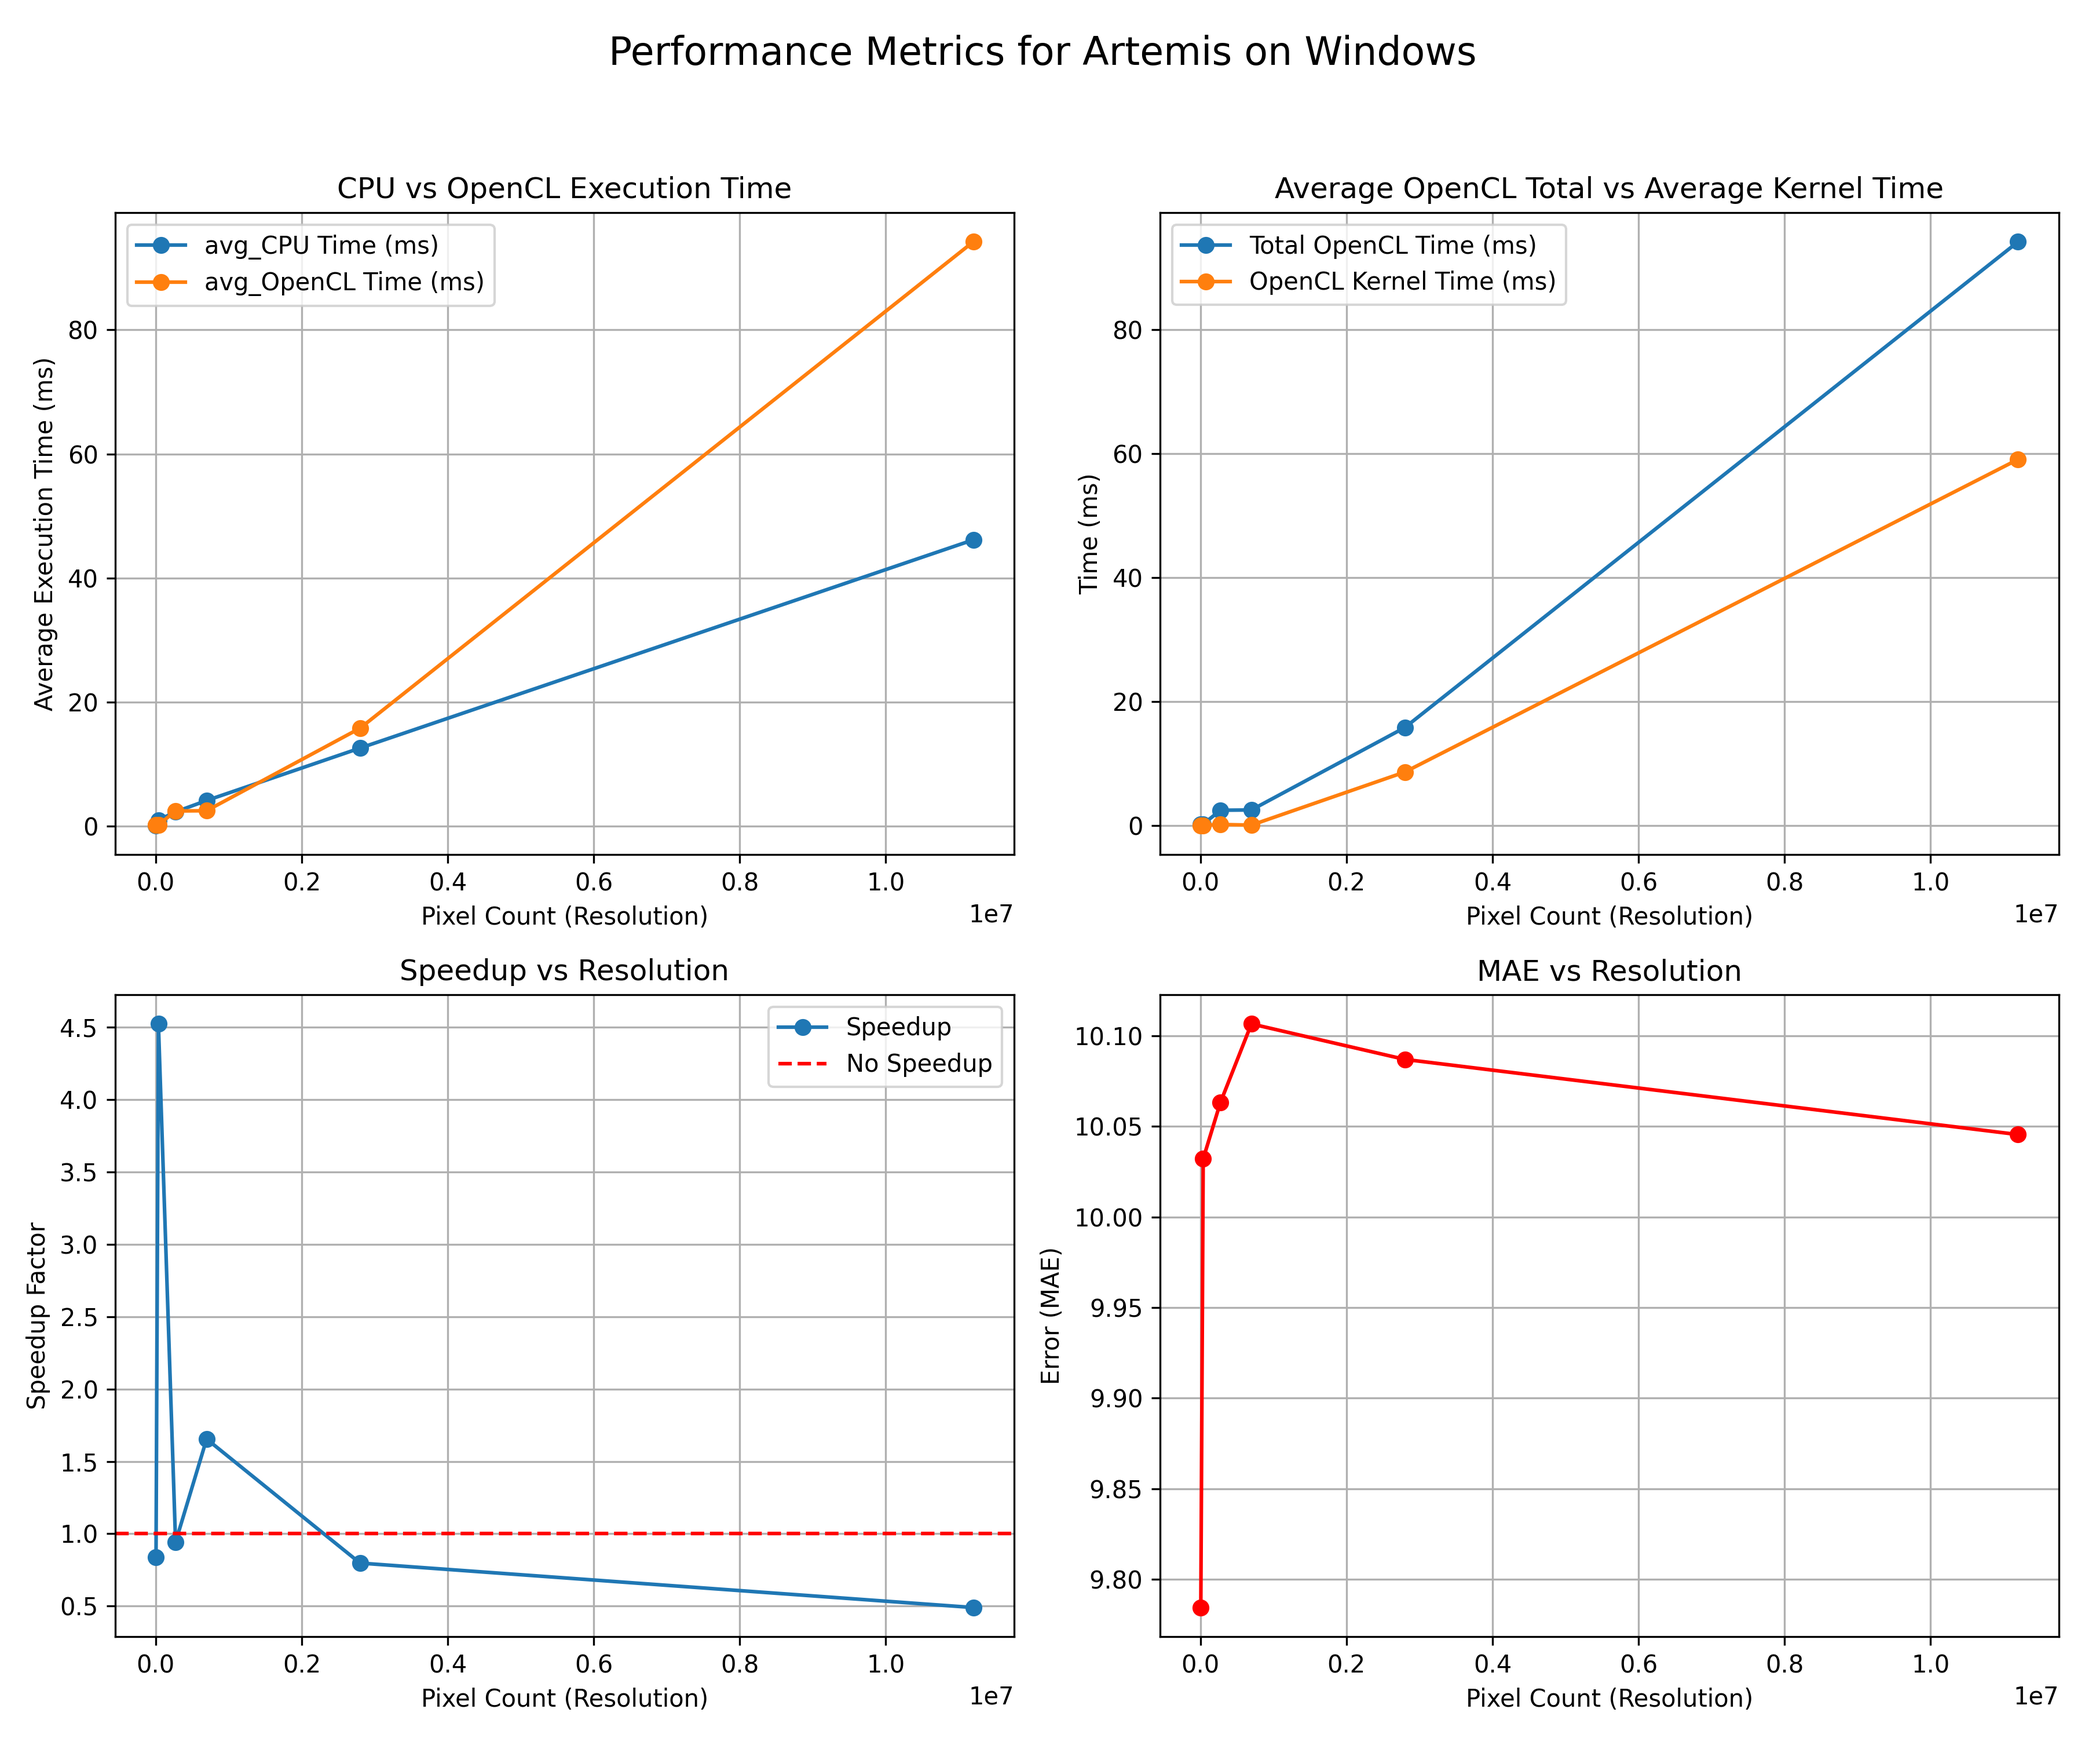
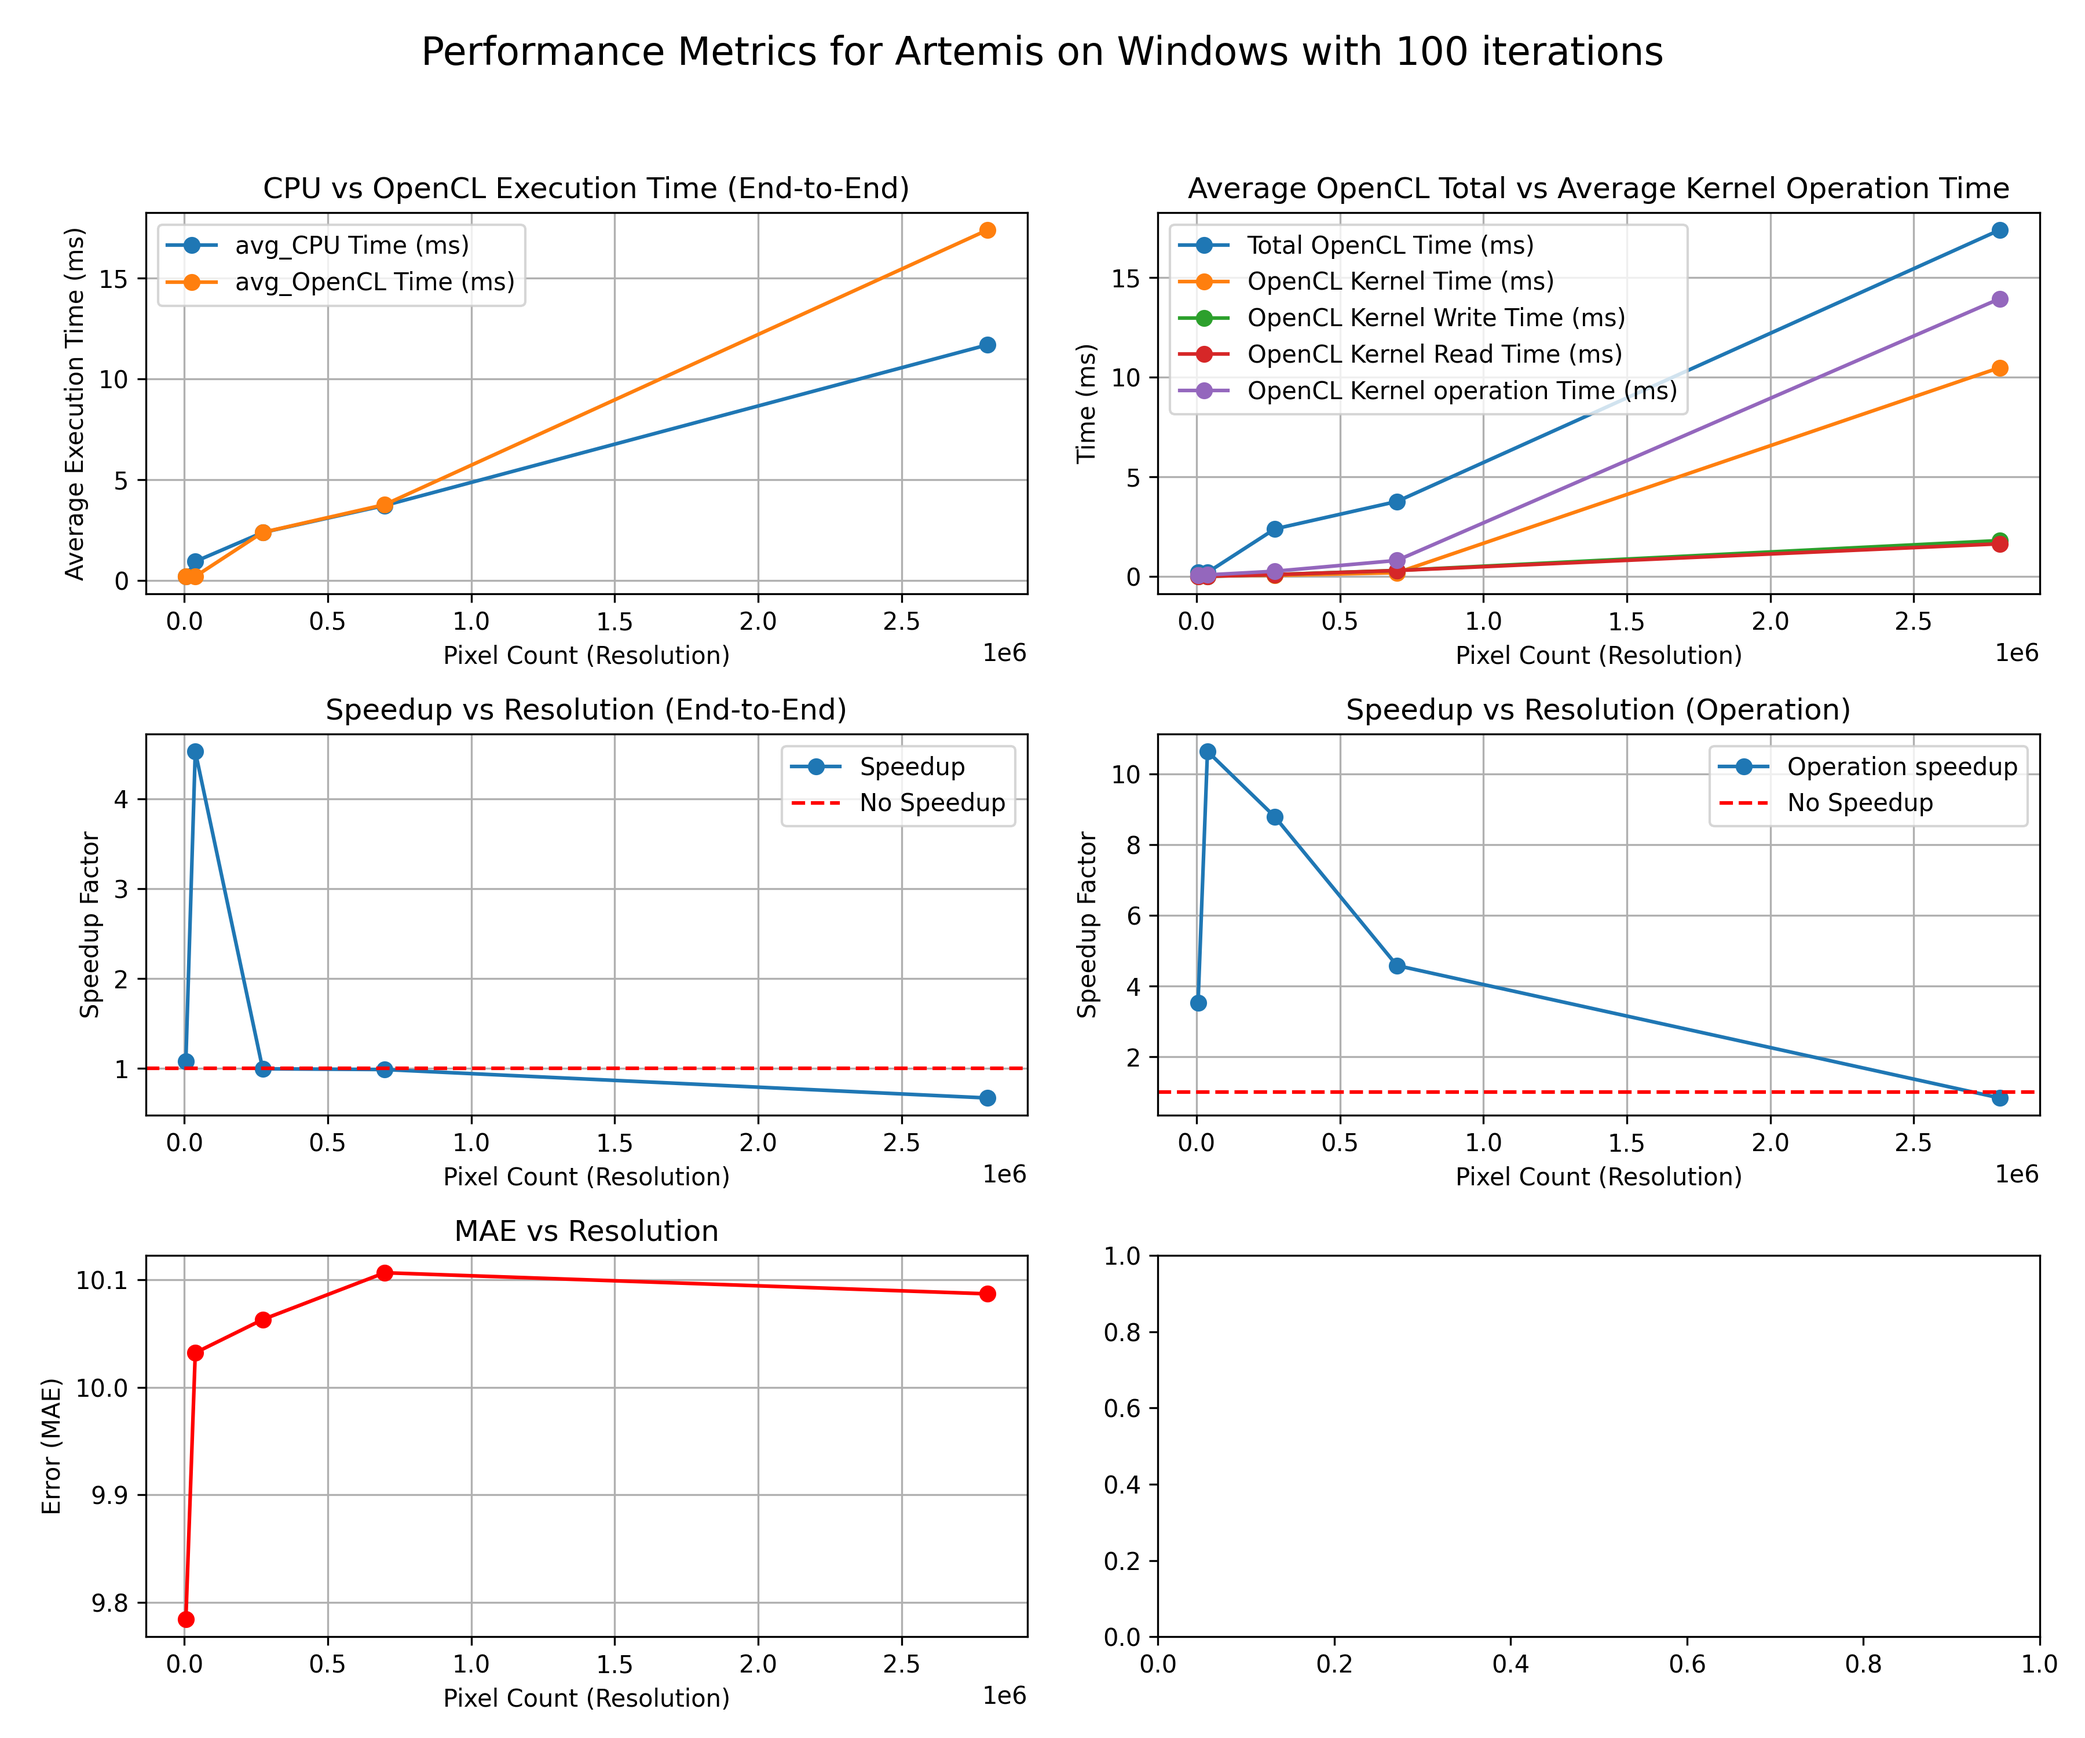
performed visualisations on Windows

diff --git a/src/Grayscale/grayscale.cpp b/src/Grayscale/grayscale.cpp
@@ -99,7 +99,7 @@ void GetImageCPU(cv::Mat* input_image, std::string image_path, Logger& logger){
 
 std::vector<uchar> PerformOpenCL(Controller& controller, std::string image_path, cl_context* context, cl_command_queue* command_queue, cl_kernel* kernel,
     double& avg_opencl_execution_time, double& avg_opencl_kernel_write_time, double& avg_opencl_kernel_execution_time, double& avg_opencl_kernel_read_time,
-    cl_int& width, cl_int& height, Logger& logger){
+    double& avg_opencl_kernel_operation, cl_int& width, cl_int& height, Logger& logger){
     
     std::ostringstream oss;
     oss << "Performing OpenCL grayscaling on " << image_path << "...";
@@ -120,7 +120,7 @@ std::vector<uchar> PerformOpenCL(Controller& controller, std::string image_path,
 
     // Initialise average variables
     double total_execution_time = 0.0;
-    double total_write_time = 0.0, total_kernel_time = 0.0, total_read_time = 0.0;
+    double total_write_time = 0.0, total_kernel_time = 0.0, total_read_time = 0.0, total_operation_time = 0.0;
 
     for(int i = 0; i < NUMBER_OF_ITERATIONS; i++){
         // Start profiling execution time
@@ -138,6 +138,7 @@ std::vector<uchar> PerformOpenCL(Controller& controller, std::string image_path,
         total_write_time += (profiling_events[1] - profiling_events[0]) * 1e-6;
         total_kernel_time += (profiling_events[3] - profiling_events[2]) * 1e-6;
         total_read_time += (profiling_events[5] - profiling_events[4]) * 1e-6;
+        total_operation_time  = total_write_time + total_kernel_time + total_read_time;
 
         if(LOG_EVENTS){
             // Convert timings into string
@@ -169,6 +170,7 @@ std::vector<uchar> PerformOpenCL(Controller& controller, std::string image_path,
     avg_opencl_kernel_write_time = total_write_time / NUMBER_OF_ITERATIONS;
     avg_opencl_kernel_execution_time = total_kernel_time / NUMBER_OF_ITERATIONS;
     avg_opencl_kernel_read_time = total_read_time / NUMBER_OF_ITERATIONS;
+    avg_opencl_kernel_operation = total_operation_time / NUMBER_OF_ITERATIONS;
 
     for (size_t i = 0; i < (width * height * 4); i++) {
         grayscale_output[i] = static_cast<unsigned char>(output_data[i] * 255.0f); // Extract and scale grayscale
@@ -220,7 +222,7 @@ void PrintEndToEndExecutionTime(std::string method, double total_execution_time_
     logger.log("-------------------- END OF " + method + " EXECUTION TIME (end-to-end) DETAILS --------------------", Logger::LogLevel::INFO);
 }
 
-void PrintRawKernelExecutionTime(double& opencl_kernel_execution_time, double& opencl_kernel_write_time, double& opencl_kernel_read_time, Logger& logger){
+void PrintRawKernelExecutionTime(double& opencl_kernel_execution_time, double& opencl_kernel_write_time, double& opencl_kernel_read_time, double& opencl_kernel_operation_time, Logger& logger){
     logger.log("-------------------- START OF KERNEL EXEUCTION DETAILS --------------------", Logger::LogLevel::INFO);
 
     std::ostringstream oss;
@@ -234,17 +236,21 @@ void PrintRawKernelExecutionTime(double& opencl_kernel_execution_time, double& o
 
     oss << std::fixed << std::setprecision(5) << "Kernel read time: " << opencl_kernel_read_time << " ms";
     logger.log(oss.str(), Logger::LogLevel::INFO);
+    oss.str("");
+
+    oss << std::fixed << std::setprecision(5) << "Kernel complete operation time: " << opencl_kernel_operation_time << " ms";
+    logger.log(oss.str(), Logger::LogLevel::INFO);
 
     logger.log("-------------------- END OF KERNEL EXEUCTION DETAILS --------------------", Logger::LogLevel::INFO);
 }
 
-void PrintSummary(double& opencl_kernel_execution_time, double& opencl_kernel_write_time, double& opencl_kernel_read_time, double& opencl_execution_time,
+void PrintSummary(double& opencl_kernel_execution_time, double& opencl_kernel_write_time, double& opencl_kernel_read_time, double& opencl_execution_time, double& opencl_kernel_operation_time,
     double& cpu_execution_time, Logger& logger){
     if(DISPLAY_TERMINAL_RESULTS)
         std::cout << "\n **************************************** START OF OpenCL SUMMARY **************************************** " << std::endl;
     
     PrintEndToEndExecutionTime("OpenCL", opencl_execution_time, logger);
-    PrintRawKernelExecutionTime(opencl_kernel_execution_time, opencl_kernel_write_time, opencl_kernel_read_time, logger);
+    PrintRawKernelExecutionTime(opencl_kernel_execution_time, opencl_kernel_write_time, opencl_kernel_read_time, opencl_kernel_operation_time, logger);
     
     if(DISPLAY_TERMINAL_RESULTS){
         std::cout << " **************************************** END OF OpenCL SUMMARY **************************************** " << std::endl;
@@ -271,11 +277,12 @@ void SaveImages(std::string image_path, cv::Mat& opencl_output_image){
     }
 }
 
-void WriteResultsToCSV(const std::string& filename, std::vector<std::tuple<std::string, std::string, std::string, int, double, double, double, double, double, double>>& results){
+void WriteResultsToCSV(const std::string& filename, std::vector<std::tuple<std::string, std::string, std::string, int, double, double, double, double, double, double, double>>& results){
     std::ofstream file(filename);
-    file << "Timestamp, Image, Resolution, Num_Iterations, avg_CPU_Time_ms, avg_OpenCL_Time_ms, avg_OpenCL_kernel_ms, avg_OpenCL_kernel_write_ms, avg_OpenCL_kernel_read_ms, Error_MAE\n";
-    for (const auto& [timestamp, image, resolution, num_iterations, avg_cpu_time, avg_opencl_time, avg_opencl_kernel_time, avg_opencl_kernel_write_time, avg_opencl_kernel_read_time, mae] : results) {
-        file << timestamp << ", " << image << ", " << resolution << ", " << num_iterations << ", " << avg_cpu_time << ", " << avg_opencl_time << ", " << avg_opencl_kernel_time << ", " << avg_opencl_kernel_write_time << ", " << avg_opencl_kernel_read_time << ", " << mae << "\n";
+    file << "Timestamp, Image, Resolution, Num_Iterations, avg_CPU_Time_ms, avg_OpenCL_Time_ms, avg_OpenCL_kernel_ms, avg_OpenCL_kernel_write_ms, avg_OpenCL_kernel_read_ms, avg_OpenCL_kernel_operation_ms, Error_MAE\n";
+    for (const auto& [timestamp, image, resolution, num_iterations, avg_cpu_time, avg_opencl_time, avg_opencl_kernel_time, avg_opencl_kernel_write_time, avg_opencl_kernel_read_time, avg_opencl_kernel_operation_time, mae] : results) {
+        file << timestamp << ", " << image << ", " << resolution << ", " << num_iterations << ", " << avg_cpu_time << ", " << avg_opencl_time << ", " << avg_opencl_kernel_time << ", "
+        << avg_opencl_kernel_write_time << ", " << avg_opencl_kernel_read_time << ", " << avg_opencl_kernel_operation_time << ", " << mae << "\n";
     }
     file.close();
 }
@@ -301,7 +308,7 @@ int main(int, char**){
     cl_int err_num = 0;
 
     // Initialise results vector
-    std::vector<std::tuple<std::string, std::string, std::string, int, double, double, double, double, double, double>> comparison_results;
+    std::vector<std::tuple<std::string, std::string, std::string, int, double, double, double, double, double, double, double>> comparison_results;
 
     // Initialise OpenCL platforms and devices
     InitOpenCL(controller, &context, &command_queue, &program, &kernel);
@@ -322,11 +329,12 @@ int main(int, char**){
         double avg_opencl_kernel_write_time = {};
         double avg_opencl_kernel_execution_time = {};
         double avg_opencl_kernel_read_time = {};
+        double avg_opencl_kernel_operation_time = {};
         double avg_cpu_execution_time = {};
 
         // Perform OpenCL and get output data
         auto output_data = PerformOpenCL(controller, image_path, &context, &command_queue,&kernel,
-            avg_opencl_execution_time, avg_opencl_kernel_write_time, avg_opencl_kernel_execution_time, avg_opencl_kernel_read_time,
+            avg_opencl_execution_time, avg_opencl_kernel_write_time, avg_opencl_kernel_execution_time, avg_opencl_kernel_read_time, avg_opencl_kernel_operation_time,
             width, height, logger);
         
         cv::Mat opencl_output_image(height, width, CV_8UC1, const_cast<unsigned char*>(output_data.data()));
@@ -353,10 +361,11 @@ int main(int, char**){
                                             avg_cpu_execution_time, avg_opencl_execution_time,
                                             avg_opencl_kernel_execution_time, 
                                             avg_opencl_kernel_write_time, avg_opencl_kernel_read_time,
+                                            avg_opencl_kernel_operation_time,
                                             MAE);
 
             // Print summary
-            PrintSummary(avg_opencl_kernel_execution_time, avg_opencl_kernel_write_time, avg_opencl_kernel_read_time, avg_opencl_execution_time,
+            PrintSummary(avg_opencl_kernel_execution_time, avg_opencl_kernel_write_time, avg_opencl_kernel_read_time, avg_opencl_execution_time, avg_opencl_kernel_operation_time,
                          avg_cpu_execution_time, logger);
 
             // Write results to CSV

diff --git a/src/Grayscale/results/visualisation.py b/src/Grayscale/results/visualisation.py
@@ -5,7 +5,7 @@ import matplotlib.pyplot as plt
 # 0 - Linux
 # 1 - Windows
 USING_OS = 1
-SHOW_FIGURES = False
+SHOW_FIGURES = True
 SHOW_TERMINAL_OUTPUT = False
 SAVE_DATAFRAME = True
 
@@ -34,28 +34,42 @@ def CPUvsOpenCLEndtoEnd(ax, data: pd.DataFrame):
     ax.plot(data['Pixel Count'], data['avg_OpenCL_Time_ms'], label='avg_OpenCL Time (ms)', marker='o')
     ax.set_xlabel('Pixel Count (Resolution)')
     ax.set_ylabel('Average Execution Time (ms)')
-    ax.set_title('CPU vs OpenCL Execution Time')
+    ax.set_title('CPU vs OpenCL Execution Time (End-to-End)')
     ax.legend()
     ax.grid(True)
 
-# OpenCL kernel vs OpenCL Total Time
+# OpenCL Kernel Operations vs OpenCL Total Time
 def KernelvsOpenCLTotal(ax, data: pd.DataFrame):
     ax.plot(data['Pixel Count'], data['avg_OpenCL_Time_ms'], label='Total OpenCL Time (ms)', marker='o')
     ax.plot(data['Pixel Count'], data['avg_OpenCL_kernel_ms'], label='OpenCL Kernel Time (ms)', marker='o')
-    ax.set_title('Average OpenCL Total vs Average Kernel Time')
+    ax.plot(data['Pixel Count'], data['avg_OpenCL_kernel_write_ms'], label='OpenCL Kernel Write Time (ms)', marker='o')
+    ax.plot(data['Pixel Count'], data['avg_OpenCL_kernel_read_ms'], label='OpenCL Kernel Read Time (ms)', marker='o')
+    ax.plot(data['Pixel Count'], data['avg_OpenCL_kernel_operation_ms'], label='OpenCL Kernel operation Time (ms)', marker='o')
+    ax.set_title('Average OpenCL Total vs Average Kernel Operation Time')
     ax.set_xlabel('Pixel Count (Resolution)')
     ax.set_ylabel('Time (ms)')
     ax.legend()
     ax.grid(True)
 
-# OpenCL vs CPU speedup factor
-def SpeedFactor(ax, data: pd.DataFrame):
+# OpenCL vs CPU speedup factor (end-to-end)
+def SpeedFactorEndtoEnd(ax, data: pd.DataFrame):
     # Calculate the speedup factor
     data['Speedup'] = data['avg_CPU_Time_ms'] / data['avg_OpenCL_Time_ms']
 
     ax.plot(data['Pixel Count'], data['Speedup'], label='Speedup', marker='o')
     ax.axhline(1, color='red', linestyle='--', label='No Speedup')
-    ax.set_title('Speedup vs Resolution')
+    ax.set_title('Speedup vs Resolution (End-to-End)')
+    ax.set_xlabel('Pixel Count (Resolution)')
+    ax.set_ylabel('Speedup Factor')
+    ax.legend()
+    ax.grid(True)
+
+def SpeedFactorOperation(ax, data: pd.DataFrame):
+    data['operation_speedup'] = data['avg_CPU_Time_ms'] / data['avg_OpenCL_kernel_operation_ms']
+
+    ax.plot(data['Pixel Count'], data['operation_speedup'], label='Operation speedup', marker='o')
+    ax.axhline(1, color='red', linestyle='--', label='No Speedup')
+    ax.set_title('Speedup vs Resolution (Operation)')
     ax.set_xlabel('Pixel Count (Resolution)')
     ax.set_ylabel('Speedup Factor')
     ax.legend()
@@ -110,15 +124,16 @@ if __name__ == "__main__":
             num_iterations = group_data['Num_Iterations'].iloc[0]
 
             # Create subplots for this image group
-            fig, ax = plt.subplots(2, 2, figsize=(12, 10))
+            fig, ax = plt.subplots(3, 2, figsize=(12, 10))
             
             CPUvsOpenCLEndtoEnd(ax[0, 0], group_data)
             KernelvsOpenCLTotal(ax[0, 1], group_data)
-            SpeedFactor(ax[1, 0], group_data)
-            MAE(ax[1, 1], group_data)
+            SpeedFactorEndtoEnd(ax[1, 0], group_data)
+            SpeedFactorOperation(ax[1, 1], group_data)
+            MAE(ax[2, 0], group_data)
 
             # Set the overall title for the group
-            fig.suptitle(f'Performance Metrics for {image_name} on {os_name}', fontsize=16)
+            fig.suptitle(f'Performance Metrics for {image_name} on {os_name} with {num_iterations} iterations', fontsize=16)
 
             # Set the figure window title
             plt.gcf().canvas.manager.set_window_title(f"Performance Metrics - {image_name}")
